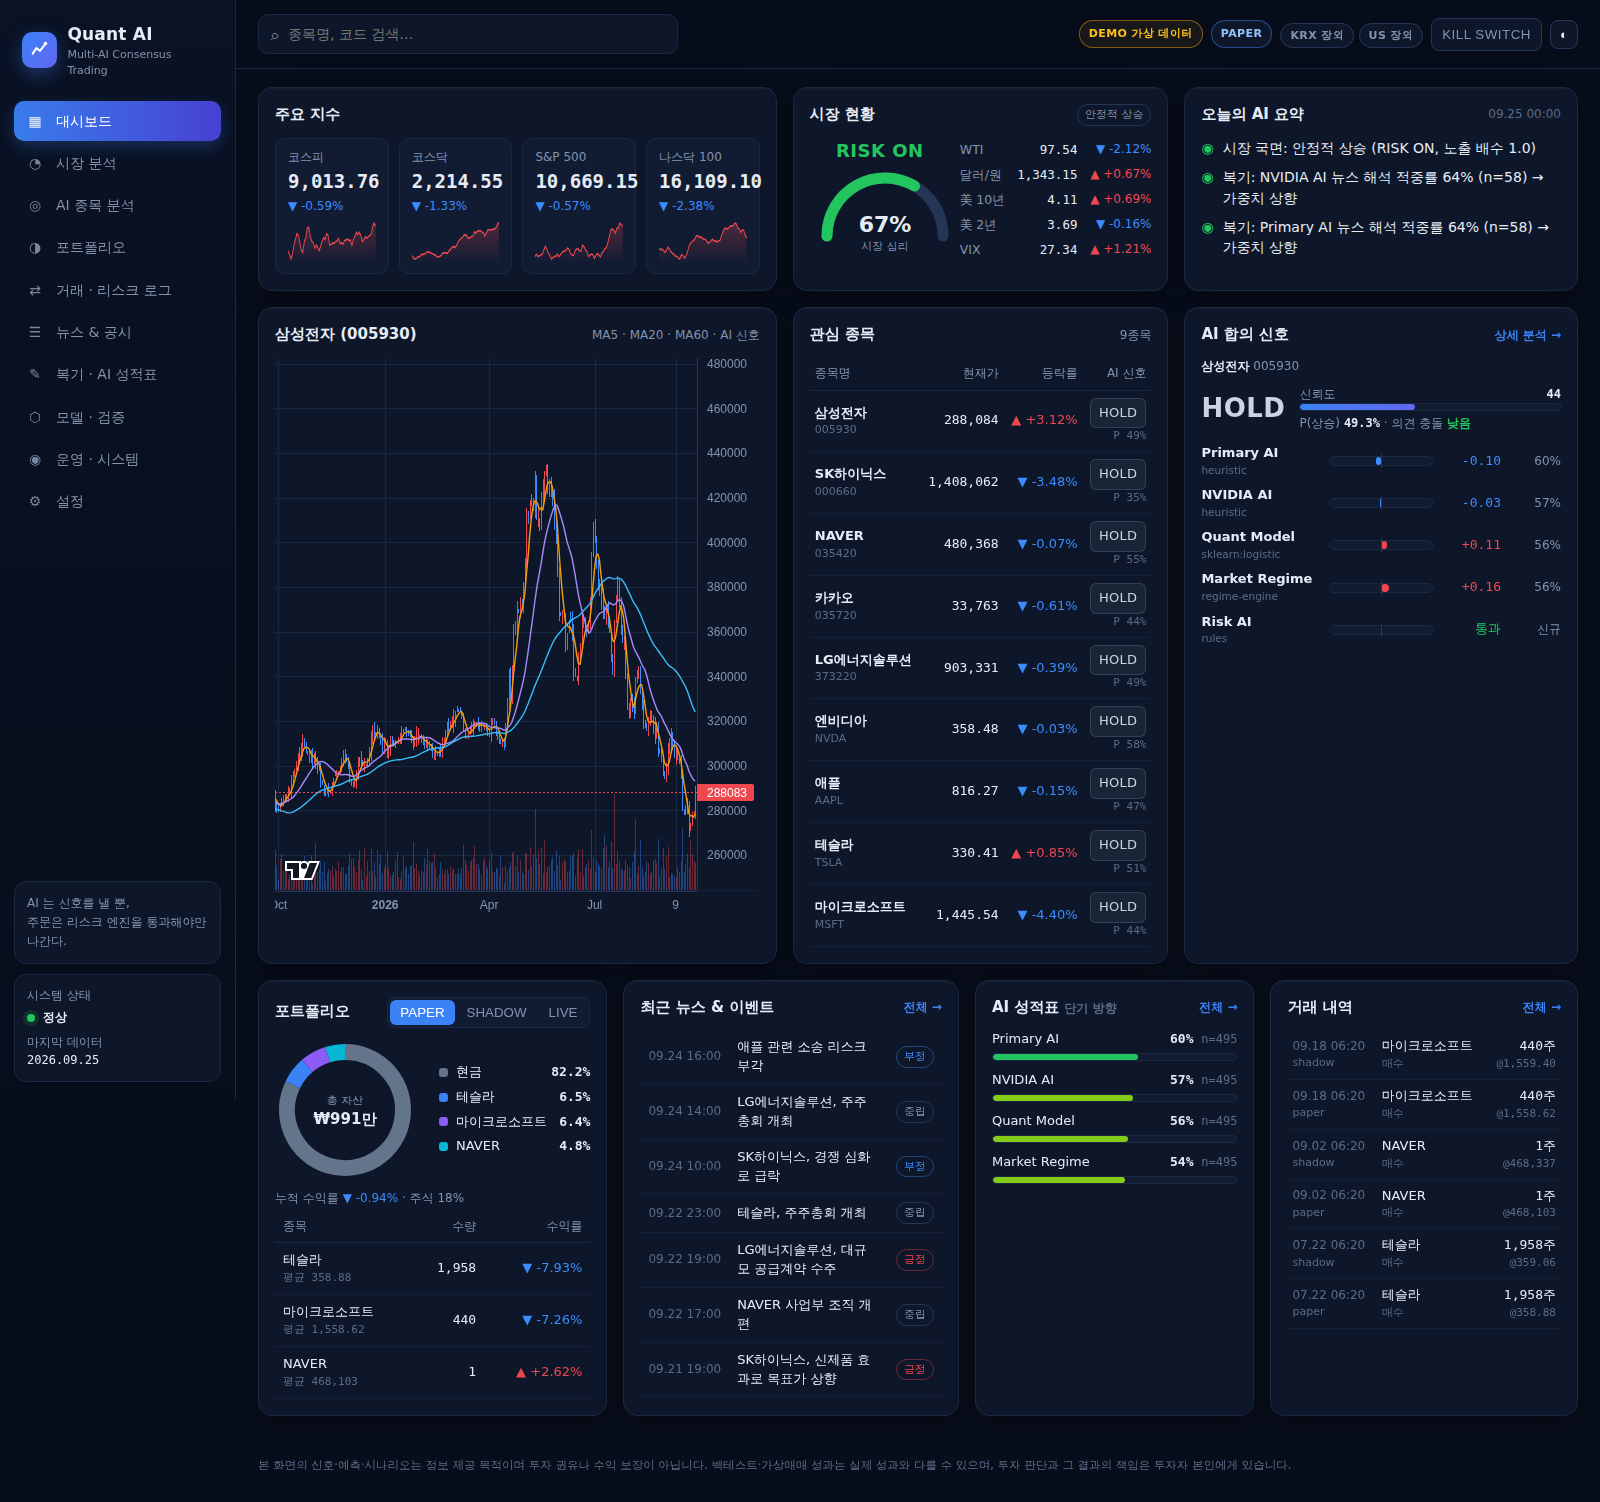
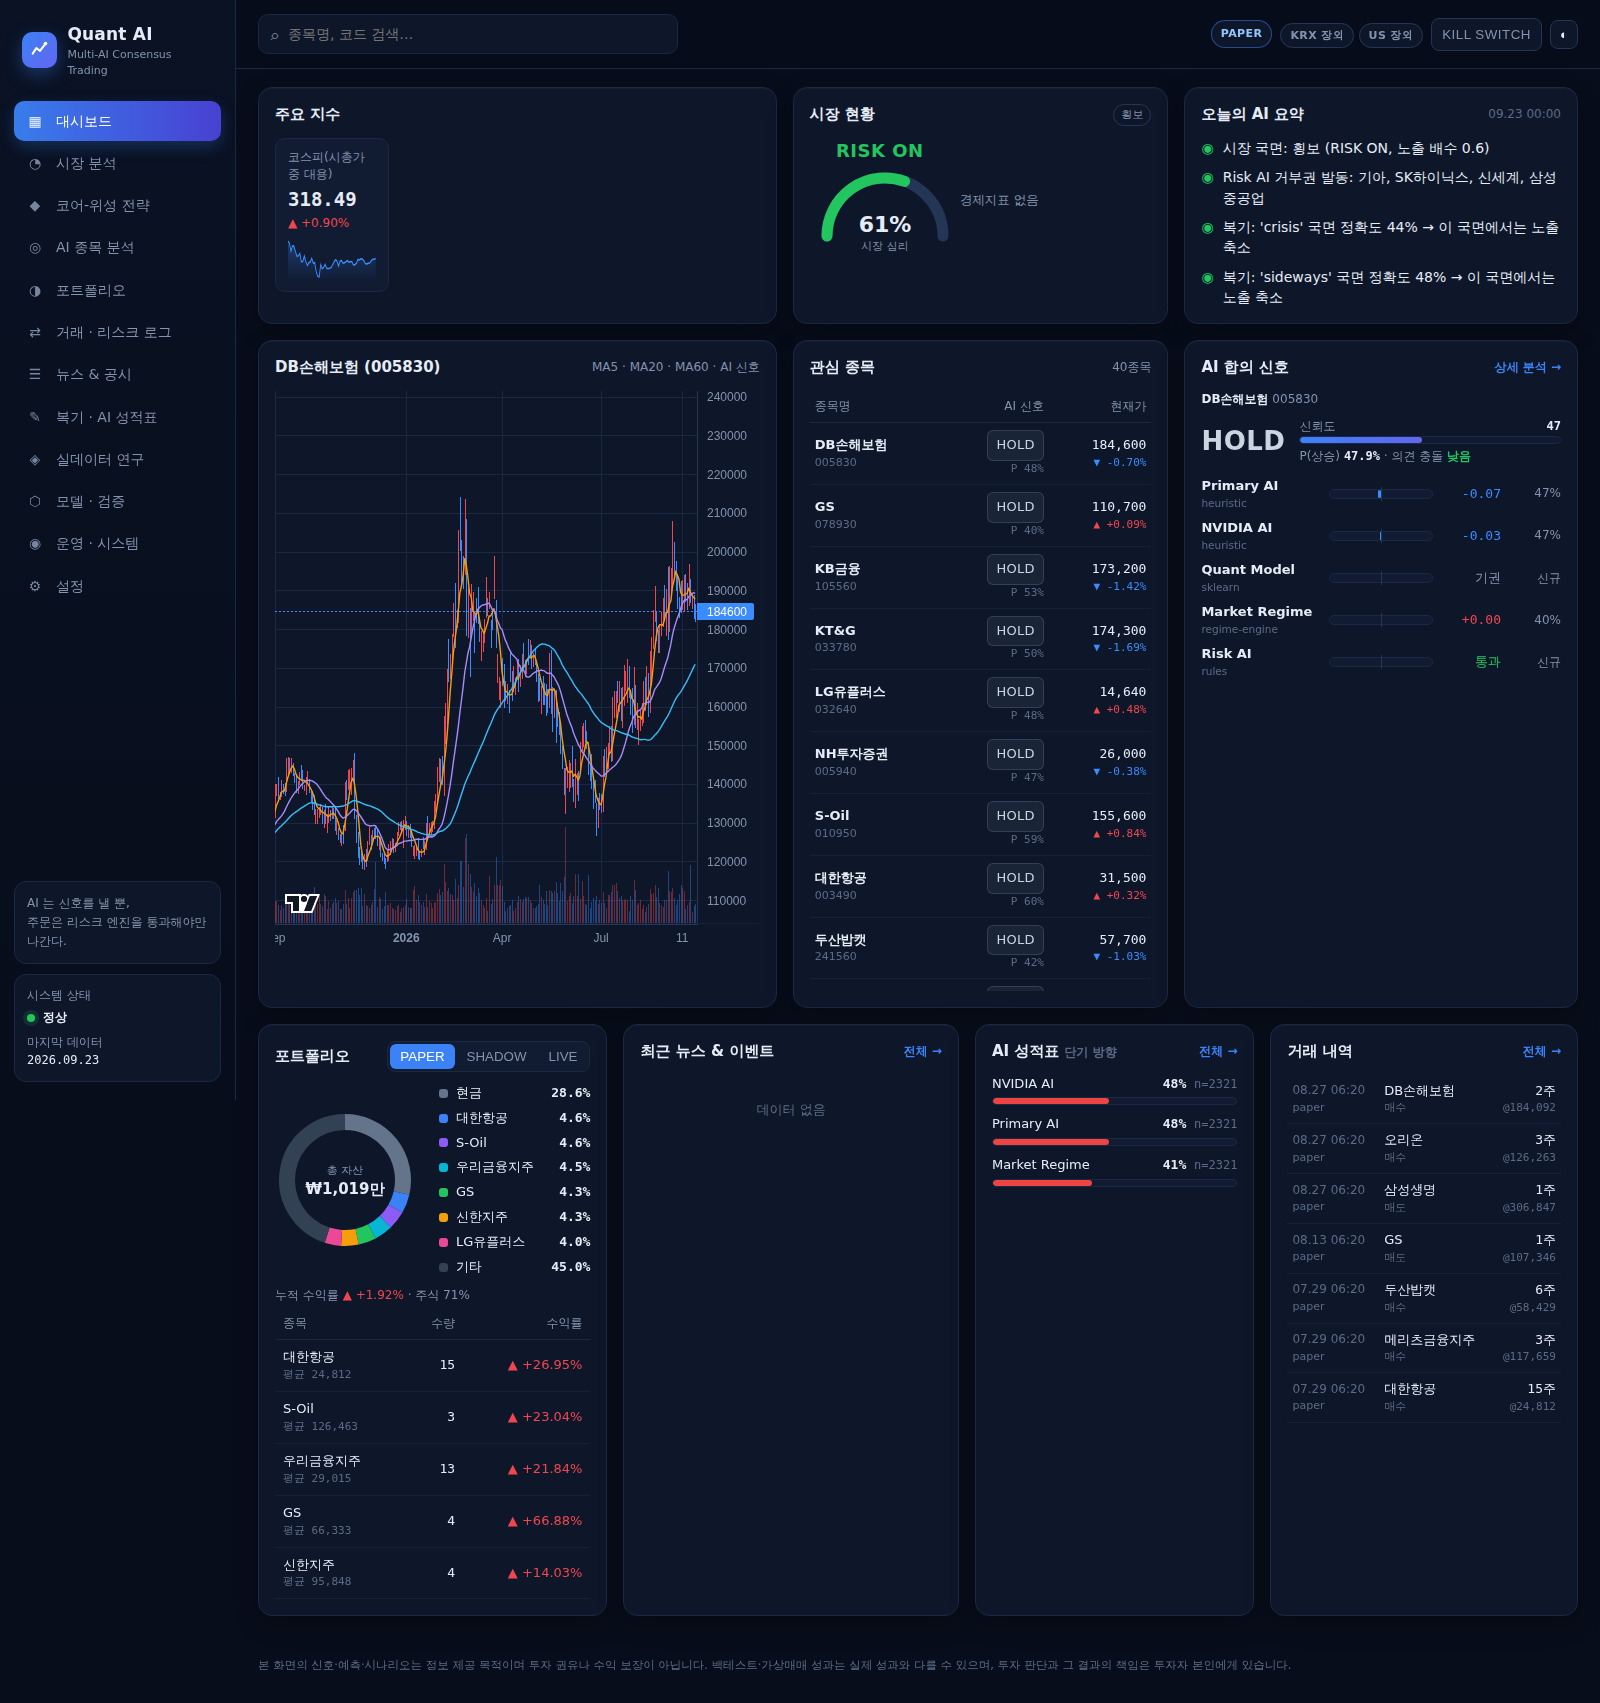
Real-data core-satellite replay results, dashboard fixes
- Watchlist capped to 40 prioritized names (held, core, satellite,
  AI-analyzed) for large real universes; full list kept for search
- Trade history excludes virtual attribution books
- Watchlist layout: AI signal column no longer clipped
- docs: 60-day real-data replay results (core +3.2% vs KOSPI -16.4%)
  and issues found during replay; new screenshots

Claude-Session: https://claude.ai/code/session_01TkMEs2GcsnQUXtkFshr22n

diff --git a/src/quant_ai/web/static/app.js b/src/quant_ai/web/static/app.js
@@ -190,9 +190,10 @@ function viewDashboard(d) {
 
   const summary = d.ai_summary.length ? `<ul class="plain">${d.ai_summary.map((s) => `<li><span class="chk">◉</span><span>${esc(s)}</span></li>`).join("")}</ul>` : empty();
 
-  const watch = d.watchlist.length ? `<div class="scroll"><table class="tight"><thead><tr><th>종목명</th><th class="r">현재가</th><th class="r">등락률</th><th class="r">AI 신호</th></tr></thead><tbody>
-    ${d.watchlist.map((w) => `<tr class="click" data-sym="${esc(w.symbol)}"><td><b>${esc(w.name)}</b><span class="sub">${esc(w.symbol)}</span></td><td class="r num">${price(w.last, w.symbol)}</td><td class="r">${pct(w.chg_pct)}</td>
-      <td class="r">${badge(w.action)}<span class="sub num">${w.prob_up === null ? "" : "P " + (w.prob_up * 100).toFixed(0) + "%"}</span></td></tr>`).join("")}</tbody></table></div>` : empty();
+  const watch = d.watchlist.length ? `<div class="scroll" style="max-height:600px"><table class="tight watch-table"><thead><tr><th>종목명</th><th class="r">AI 신호</th><th class="r">현재가</th></tr></thead><tbody>
+    ${d.watchlist.map((w) => `<tr class="click" data-sym="${esc(w.symbol)}"><td><b>${esc(w.name)}</b><span class="sub">${esc(w.symbol)}</span></td>
+      <td class="r">${badge(w.action)}<span class="sub num">${w.prob_up === null ? "" : "P " + (w.prob_up * 100).toFixed(0) + "%"}</span></td>
+      <td class="r num">${price(w.last, w.symbol)}<span class="sub">${pct(w.chg_pct)}</span></td></tr>`).join("")}</tbody></table></div>` : empty();
 
   const pf = d.portfolios[S.pfMode] || {};
   const pfBody = pf.equity ? portfolioSummary(pf) : empty(`${S.pfMode} 포트폴리오 기록 없음`);
@@ -268,7 +269,7 @@ function scoreMatrix(d, compactDirection = false) {
 }
 function heatColor(a) { if (a === null || a === undefined) return css("--line-2"); return a >= 0.58 ? "#22c55e" : a >= 0.52 ? "#84cc16" : a >= 0.48 ? "#f59e0b" : "#ef4444"; }
 
-function nameOf(sym) { const w = S.data?.watchlist.find((x) => x.symbol === sym); return w ? `${w.name} (${w.symbol})` : sym || ""; }
+function nameOf(sym) { const w = (S.data?.all_symbols || S.data?.watchlist || []).find((x) => x.symbol === sym); return w ? `${w.name} (${w.symbol})` : sym || ""; }
 
 // ------------------------------------------------------------ 뷰: AI 종목 분석
 async function viewAnalysis(el) {
@@ -276,7 +277,8 @@ async function viewAnalysis(el) {
   const sym = S.symbol || d.watchlist[0]?.symbol;
   if (!sym) { el.innerHTML = card("AI 종목 분석", empty()); return; }
   const a = await api(`/api/analysis?symbol=${encodeURIComponent(sym)}`);
-  const sel = `<select class="sym-select" id="sym-select">${d.watchlist.map((w) => `<option value="${esc(w.symbol)}" ${w.symbol === sym ? "selected" : ""}>${esc(w.name)} (${esc(w.symbol)})</option>`).join("")}</select>`;
+  const selList = (d.all_symbols || d.watchlist);
+  const sel = `<select class="sym-select" id="sym-select">${selList.map((w) => `<option value="${esc(w.symbol)}" ${w.symbol === sym ? "selected" : ""}>${esc(w.name)} (${esc(w.symbol)})</option>`).join("")}</select>`;
   const c = a.consensus;
   const labels = d.analyst_labels;
   const ops = c ? (c.contributions || []).map((v) => {
@@ -676,7 +678,7 @@ $("#search").addEventListener("input", (e) => {
   const q = e.target.value.trim().toLowerCase();
   const box = $("#search-results");
   if (!q || !S.data) { box.classList.remove("open"); return; }
-  const hits = S.data.watchlist.filter((w) => w.name.toLowerCase().includes(q) || w.symbol.toLowerCase().includes(q)).slice(0, 8);
+  const hits = (S.data.all_symbols || S.data.watchlist).filter((w) => w.name.toLowerCase().includes(q) || w.symbol.toLowerCase().includes(q)).slice(0, 8);
   box.innerHTML = hits.map((w) => `<a data-sym="${esc(w.symbol)}"><span>${esc(w.name)} <span class="dim small">${esc(w.symbol)}</span></span>${badge(w.action)}</a>`).join("") || '<div class="empty">결과 없음</div>';
   box.classList.add("open");
   box.querySelectorAll("a").forEach((a) => a.onclick = () => { S.symbol = a.dataset.sym; box.classList.remove("open"); e.target.value = ""; location.hash = "#analysis"; route(); });

diff --git a/src/quant_ai/web/static/style.css b/src/quant_ai/web/static/style.css
@@ -200,3 +200,6 @@ table.tight td, table.tight th { padding: 7px 5px; } .chart-sm { height: 220px; 
 }
 
 .disclaimer { padding: 0 22px 28px; color: var(--dim); font-size: 11.5px; line-height: 1.6; }
+.watch-table { table-layout: fixed; }
+.watch-table th:nth-child(1), .watch-table td:nth-child(1) { width: 44%; overflow: hidden; text-overflow: ellipsis; }
+.watch-table th:nth-child(2), .watch-table td:nth-child(2) { width: 26%; }

diff --git a/src/quant_ai/web/api.py b/src/quant_ai/web/api.py
@@ -152,6 +152,23 @@ class DashboardAPI:
                     "action": c.action if c else None, "prob_up": _f(c.prob_up) if c else None,
                     "confidence": c.confidence if c else None, "conflict": c.conflict if c else None,
                 })
+            # 종목이 많으면(실제 KRX 유니버스) 보유·코어·위성·AI 분석 종목 우선 40개만 관심 종목으로
+            all_symbols = [{"symbol": w["symbol"], "name": w["name"], "action": w["action"]} for w in watch]
+            if len(watch) > 40:
+                from ..ops import get_state
+                prio: dict[str, int] = {}
+                for m in ("live", "shadow", "paper"):
+                    snap = s.scalar(select(PortfolioSnapshot).where(PortfolioSnapshot.mode == m)
+                                    .order_by(PortfolioSnapshot.ts.desc()))
+                    for sym in (snap.positions or {}) if snap else {}:
+                        prio.setdefault(sym, 0)
+                    plan = get_state(self.engine, f"cs-plan:{m}")
+                    for sym in plan.get("core", []):
+                        prio.setdefault(sym, 1)
+                    for x in plan.get("satellite", []):
+                        prio.setdefault(x["symbol"], 0)
+                watch.sort(key=lambda w: (prio.get(w["symbol"], 2 if w["action"] else 3), w["name"]))
+                watch = watch[:40]
 
             # ---- 신호 / AI 요약
             recent = s.scalars(select(ConsensusRecord).order_by(ConsensusRecord.as_of.desc(), ConsensusRecord.id.desc())
@@ -186,7 +203,8 @@ class DashboardAPI:
             # ---- 포트폴리오 / 체결 / 리스크 로그
             portfolios = {m: self._portfolio(s, m, bars, inst) for m in ("paper", "shadow", "live")}
             trades, risk_log = [], []
-            for j in s.scalars(select(JournalEntry).where(JournalEntry.kind == "order")
+            for j in s.scalars(select(JournalEntry).where(JournalEntry.kind == "order",
+                                                          ~JournalEntry.mode.startswith("attr-"))  # 가상 측정 장부 제외
                                .order_by(JournalEntry.ts.desc(), JournalEntry.id.desc()).limit(200)):
                 d = j.data or {}
                 row = {"ts": _ts(j.ts), "mode": j.mode, "symbol": j.symbol,
@@ -226,7 +244,7 @@ class DashboardAPI:
             "markets": {k: m.phase(now).value for k, m in MARKETS.items()},
             "indices": indices, "market": market, "macro": macro, "ai_summary": summary,
             "summary_time": _ts(recent[0].as_of) if recent else None,
-            "watchlist": watch, "signals": signals, "news": news[:30], "portfolios": portfolios,
+            "watchlist": watch, "all_symbols": all_symbols, "signals": signals, "news": news[:30], "portfolios": portfolios,
             "trades": trades[:100], "risk_log": risk_log[:100], "scoreboard": board,
             "category_labels": CATEGORY_LABELS, "analyst_labels": ANALYST_LABELS, "models": models,
             "system": {

diff --git a/docs/RESEARCH_KRX.md b/docs/RESEARCH_KRX.md
@@ -112,3 +112,28 @@
 - 가치(PBR·PER)·퀄리티(ROE) 팩터: point-in-time 재무 데이터가 필요 (DART 재무제표 공시일 기준 결합).
 - 낙폭 관리: 추세 필터(지수 200일선 아래면 노출 축소)를 **새 시도로 등록**해 같은 절차로 검증.
 - KIS 모의투자로 월간 리밸런싱을 실제로 돌려 슬리피지 실측.
+
+## 7. 코어-위성 실데이터 재생 (2026-06-30 ~ 2026-09-23, 60거래일)
+
+`quant-ai collect krx --years 3` → `quant-ai replay --days 60` (매일 그날 종가까지의 정보로 판단, 종가 체결, 초기 1,000만 원).
+이 환경에는 LLM API 키가 없어 Primary/NVIDIA AI 는 오프라인 휴리스틱, Risk AI 는 규칙만으로 동작했다.
+
+![코어-위성](core_satellite.png)
+
+| 장부 | 수익률 | MDD |
+|---|---|---|
+| ① 코어만 (AI 없음) | +3.18% | -8.3% |
+| ② 코어 + AI 거부권 | +3.18% | -8.3% |
+| ③ 코어 + 거부권 + 위성 (= 실제 PAPER 장부) | +1.95% | -6.6% |
+| KOSPI (시총가중 대용) | **-16.44%** | |
+
+- 코어 리밸런싱 3회 (06-30, 07-29, 08-27), 매 사이클 AI 가 후보 42종목 분석.
+- **하락장(KOSPI -16%)에서 코어가 +3% 로 방어** — 저변동성·모멘텀 코어의 전형적 모습 (연구의 2022·2024 결과와 일치).
+- AI 거부권: 코어 종목(저변동성 성향)에 종목 고유 위험이 없어 발동 0회 → ①과 ② 동일.
+- 위성: 휴리스틱 AI 가 신뢰도 60 이상 BUY 합의를 내지 못해 20% 가 현금 → 수익률 -1.2%p, 낙폭 +1.7%p 개선.
+- **60일은 너무 짧아 AI 기여도에 대해 결론을 낼 수 없다.** LLM 키를 넣고 수개월 전진 누적이 필요하다.
+
+재생 중 발견·수정한 문제
+1. Risk AI 의 변동성 급증·가격 급변 규칙이 수학적으로 발동 불가능했다 (같은 구간 변동성으로 나눠 상한이 생김) → 이전 구간 대비로 수정.
+2. '위기 국면' 판정이 코어 20종목을 전량 청산했다 → 위험을 종목/시장으로 분리, 시장 위험은 위성만 막도록.
+3. 코어 매수가 AI 확률 최소치(0.55)로 거부됐다 → 코어는 AI 확률 검사 대상에서 제외.
